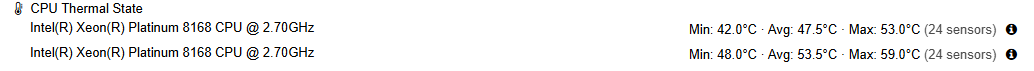
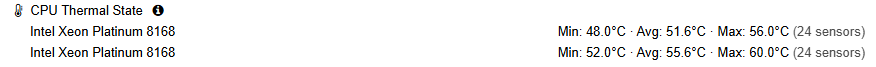
first

diff --git a/src/modules/node_info/files/PveMods_pvemanagerlib.js b/src/modules/node_info/files/PveMods_pvemanagerlib.js
@@ -246,9 +246,7 @@ function renderCpuThermal(info) {
             : state === 'warning' ? 'color: #FFC300; font-weight: bold;' : '';
         return `<span style="${style}">${format(value)}</span>`;
     };
-    const detailsLabel = Ext.htmlEncode(gettext('CPU sensor details'));
     const rows = groups.map(group => {
-        const detailsButton = `<button type="button" class="pve-mods-cpu-details" data-cpu-group="${Ext.htmlEncode(group.id)}" aria-label="${detailsLabel}" title="${detailsLabel}" style="padding: 2px 6px; border: 0; background: transparent; color: inherit; font: inherit; cursor: pointer;"><i class="fa fa-info-circle" aria-hidden="true"></i></button>`;
         const values = group.selected.map(row => row.value);
         const minimum = group.selected.reduce((a, b) => a.value <= b.value ? a : b);
         const maximum = group.selected.reduce((a, b) => a.value >= b.value ? a : b);
@@ -258,7 +256,7 @@ function renderCpuThermal(info) {
         const summary = `${gettext('Min')}: ${colored(minimum.value, minimum.state)}`
             + ` &middot; ${gettext('Avg')}: ${colored(average, averageState)}`
             + ` &middot; ${gettext('Max')}: ${colored(maximum.value, maximum.state)}`
-            + ` <span style="white-space: nowrap;"><span style="opacity: 0.7;">(${values.length} ${Ext.htmlEncode(gettext('sensors'))})</span> ${detailsButton}</span>`;
+            + ` <span style="white-space: nowrap; opacity: 0.7;">(${values.length} ${Ext.htmlEncode(gettext('sensors'))})</span>`;
         const label = Ext.htmlEncode(group.model || gettext('Unknown CPU'));
         return `<tr><td style="width: 50%; padding: 2px 10px 2px 20px; vertical-align: top; overflow-wrap: anywhere;">${label}</td>`
             + `<td style="width: 50%; padding: 2px 0 2px 10px; text-align: right; vertical-align: top; white-space: normal; overflow-wrap: anywhere;">${summary}</td></tr>`;
@@ -266,8 +264,8 @@ function renderCpuThermal(info) {
     return `<table style="width: 100%; table-layout: fixed; border-collapse: collapse;">${rows}</table>`;
 }
 
-function getCpuThermalDetailRows(widget) {
-    return widget.cpuThermalGroups.filter(group => group.id === widget.cpuThermalDetailGroup)
+function getCpuThermalDetailRows(widget, groupId) {
+    return widget.cpuThermalGroups.filter(group => group.id === groupId)
         .flatMap(group => group.rows.map(row => ({
         id: JSON.stringify([group.id, row.id]),
         group: group.label, model: group.model, sensor: row.label, value: row.value, state: row.state,
@@ -279,69 +277,74 @@ function refreshCpuThermalDetails(widget) {
     if (!win || win.destroyed) {
         return;
     }
-    const grid = win.down('grid');
-    const store = grid.getStore();
-    const rows = getCpuThermalDetailRows(widget);
-    const ids = new Set(rows.map(row => row.id));
-    store.remove(store.getRange().filter(record => !ids.has(record.getId())));
-    rows.forEach(row => {
-        const record = store.getById(row.id);
-        if (record) {
-            record.set(row);
-            record.commit();
-        } else {
-            store.add(row);
+    const tabs = win.down('tabpanel');
+    const groups = widget.cpuThermalGroups || [];
+    groups.forEach(group => {
+        let grid = tabs.items.items.find(tab => tab.deviceId === group.id);
+        if (!grid) {
+            grid = tabs.add({
+                xtype: 'grid',
+                deviceId: group.id,
+                title: Ext.htmlEncode(`${group.model || gettext('CPU')} (${group.label})`),
+                scrollable: true,
+                viewConfig: { preserveScrollOnRefresh: true },
+                store: { fields: ['id', 'group', 'model', 'sensor', 'value', 'state'] },
+                columns: [
+                    { text: gettext('Package'), dataIndex: 'group', width: 150, renderer: Ext.htmlEncode },
+                    { text: gettext('Sensor'), dataIndex: 'sensor', flex: 1, minWidth: 140, renderer: Ext.htmlEncode },
+                    { text: `\u00b0${widget.cpuThermalUnit}`, itemId: 'temperatureColumn', dataIndex: 'value', width: 90,
+                        renderer: function(value, metadata, record) {
+                            const state = record.get('state');
+                            metadata.tdStyle = state === 'critical' ? 'color: red; font-weight: bold;'
+                                : state === 'warning' ? 'color: #FFC300; font-weight: bold;' : '';
+                            return Ext.util.Format.number(value, '0.0');
+                        } },
+                ],
+            });
+        }
+        const store = grid.getStore();
+        const rows = getCpuThermalDetailRows(widget, group.id);
+        const ids = new Set(rows.map(row => row.id));
+        store.remove(store.getRange().filter(record => !ids.has(record.getId())));
+        rows.forEach(row => {
+            const record = store.getById(row.id);
+            if (record) {
+                record.set(row);
+                record.commit();
+            } else {
+                store.add(row);
+            }
+        });
+        grid.down('#temperatureColumn').setText(`\u00b0${widget.cpuThermalUnit}`);
+    });
+    tabs.items.items.slice().forEach(tab => {
+        if (!groups.some(group => group.id === tab.deviceId)) {
+            tabs.remove(tab);
         }
     });
-    grid.down('#temperatureColumn').setText(`\u00b0${widget.cpuThermalUnit}`);
+    if (!tabs.getActiveTab() && tabs.items.getCount()) {
+        tabs.setActiveTab(0);
+    }
 }
 
-function showCpuThermalDetails(widget, groupId) {
-    const group = widget.cpuThermalGroups?.find(group => group.id === groupId);
-    if (!group) {
-        return;
-    }
-    if (widget.cpuThermalWindow && widget.cpuThermalDetailGroup !== groupId) {
-        widget.cpuThermalWindow.close();
-    }
-    widget.cpuThermalDetailGroup = groupId;
+function showCpuThermalDetails(widget) {
     if (widget.cpuThermalWindow && !widget.cpuThermalWindow.destroyed) {
         widget.cpuThermalWindow.toFront();
         return;
     }
-    // Counts refer to temperature sensors, not logical threads; retain sparse core IDs per package.
-    const rows = getCpuThermalDetailRows(widget);
     const size = Ext.getBody().getViewSize();
     widget.cpuThermalWindow = Ext.create('Ext.window.Window', {
-        title: Ext.htmlEncode(gettext('CPU temperature sensors - live')
-            + (group.model ? ' - ' + group.model : '')),
+        title: gettext('CPU temperature sensors - live'),
         modal: true,
         width: Math.min(900, size.width - 32),
         height: Math.min(560, size.height - 64),
         layout: 'fit',
-        items: [{
-            xtype: 'grid',
-            scrollable: true,
-            store: {
-                fields: ['id', 'group', 'model', 'sensor', 'value', 'state'],
-                data: rows,
-            },
-            columns: [
-                { text: gettext('Package'), dataIndex: 'group', width: 150, renderer: Ext.htmlEncode },
-                { text: gettext('Sensor'), dataIndex: 'sensor', flex: 1, minWidth: 140, renderer: Ext.htmlEncode },
-                { text: `\u00b0${widget.cpuThermalUnit}`, itemId: 'temperatureColumn', dataIndex: 'value', width: 90,
-                    renderer: function(value, metadata, record) {
-                        const state = record.get('state');
-                        metadata.tdStyle = state === 'critical' ? 'color: red; font-weight: bold;'
-                            : state === 'warning' ? 'color: #FFC300; font-weight: bold;' : '';
-                        return Ext.util.Format.number(value, '0.0');
-                    } },
-            ],
-        }],
+        items: [{ xtype: 'tabpanel' }],
         buttons: [{ text: gettext('Close'), handler: button => button.up('window').close() }],
         listeners: { destroy: function() { widget.cpuThermalWindow = null; } },
     });
     widget.cpuThermalWindow.show();
+    refreshCpuThermalDetails(widget);
 }
 
 function getGpuDevices(info) {
@@ -564,13 +567,11 @@ function renderUpsSummary(info) {
         const status = getUpsStatus(data['ups.status']);
         const style = status.state === 'critical' ? 'color: red; font-weight: bold;'
             : status.state === 'warning' ? 'color: #FFC300; font-weight: bold;' : '';
-        const label = encode(gettext('UPS details'));
-        const button = `<button type="button" class="pve-mods-ups-details" data-ups-key="${encode(key)}" aria-label="${label}" title="${label}" style="padding: 2px 6px; border: 0; background: transparent; color: inherit; font: inherit; cursor: pointer;"><i class="fa fa-info-circle" aria-hidden="true"></i></button>`;
         const summary = `<div style="display: flex; justify-content: space-between; gap: 8px;">`
             + `<span style="text-align: left; ${style}">${encode(status.text)}</span>`
             + `<span>${encode(gettext('Capacity'))}: ${encode(percent(data['battery.charge']))}`
             + ` (${encode(formatUpsRuntime(data['battery.runtime']))} ${encode(gettext('left'))})`
-            + ` | <span style="white-space: nowrap;">${encode(gettext('Load'))}: ${encode(percent(data['ups.load']))} ${button}</span></span></div>`;
+            + ` | <span style="white-space: nowrap;">${encode(gettext('Load'))}: ${encode(percent(data['ups.load']))}</span></span></div>`;
         const charge = getSensorValue({ input: data['battery.charge'] }, 'input');
         const chargeAvailable = Number.isFinite(charge) && charge >= 0 && charge <= 100;
         const capacityLabel = encode(gettext('Battery capacity') + ': ' + percent(data['battery.charge']));
@@ -589,16 +590,11 @@ function renderUpsSummary(info) {
     return `<table style="width: 100%; table-layout: fixed; border-collapse: collapse;">${rows.join('')}</table>`;
 }
 
-function refreshUpsDetails(widget) {
-    const win = widget.upsWindow;
-    if (!win || win.destroyed) {
-        return;
-    }
-    const data = widget.upsInfo?.[widget.upsDetailKey];
+function getUpsDetailsHtml(data, key) {
     const encode = value => Ext.htmlEncode(String(value));
     const sections = [
         [gettext('Device'), [
-            [gettext('Connection'), null, widget.upsDetailKey],
+            [gettext('Connection'), null, key],
             [gettext('Manufacturer'), 'ups.mfr', data?.['device.mfr']],
             [gettext('Model'), 'ups.model', data?.['device.model']],
             [gettext('Serial number'), 'ups.serial', data?.['device.serial']],
@@ -637,41 +633,65 @@ function refreshUpsDetails(widget) {
         }).join('');
         return entries ? `<h3>${encode(title)}</h3><table style="width: 100%; table-layout: fixed; border-collapse: collapse;">${entries}</table>` : '';
     }).join('');
-    win.down('#overview').update(data ? html : encode(gettext('UPS data unavailable')));
+    return data ? html : encode(gettext('UPS data unavailable'));
 }
 
-function showUpsDetails(widget, key) {
-    const data = widget.upsInfo?.[key];
-    if (!data) {
+function refreshUpsDetails(widget) {
+    const win = widget.upsWindow;
+    if (!win || win.destroyed) {
         return;
     }
-    if (widget.upsWindow && widget.upsDetailKey !== key) {
-        widget.upsWindow.close();
+    const tabs = win.down('tabpanel');
+    const devices = Object.entries(widget.upsInfo || {}).filter(([, data]) =>
+        data && typeof data === 'object' && !Array.isArray(data));
+    devices.forEach(([key, data]) => {
+        let panel = tabs.items.items.find(tab => tab.deviceId === key);
+        if (!panel) {
+            panel = tabs.add({
+                xtype: 'panel',
+                deviceId: key,
+                title: Ext.htmlEncode(`${data['ups.model'] || data['device.model'] || gettext('UPS')} (${key})`),
+                bodyPadding: 15,
+                scrollable: true,
+            });
+        }
+        const html = getUpsDetailsHtml(data, key);
+        if (panel.detailsHtml !== html) {
+            const scrollable = panel.getScrollable();
+            const position = scrollable.getPosition();
+            panel.update(html);
+            panel.detailsHtml = html;
+            scrollable.scrollTo(position.x, position.y);
+        }
+    });
+    tabs.items.items.slice().forEach(tab => {
+        if (!devices.some(([key]) => key === tab.deviceId)) {
+            tabs.remove(tab);
+        }
+    });
+    if (!tabs.getActiveTab() && tabs.items.getCount()) {
+        tabs.setActiveTab(0);
     }
-    widget.upsDetailKey = key;
+}
+
+function showUpsDetails(widget) {
     if (widget.upsWindow && !widget.upsWindow.destroyed) {
         widget.upsWindow.toFront();
         return;
     }
     const size = Ext.getBody().getViewSize();
     widget.upsWindow = Ext.create('Ext.window.Window', {
-        title: Ext.htmlEncode(gettext('UPS details - live') + ' - '
-            + (data['ups.model'] || data['device.model'] || key)),
+        title: gettext('UPS details - live'),
         modal: true,
         width: Math.min(760, size.width - 32),
         height: Math.min(560, size.height - 64),
         layout: 'fit',
-        items: [{
-            xtype: 'panel',
-            itemId: 'overview',
-            bodyPadding: 15,
-            scrollable: true,
-        }],
+        items: [{ xtype: 'tabpanel' }],
         buttons: [{ text: gettext('Close'), handler: button => button.up('window').close() }],
         listeners: { destroy: function() { widget.upsWindow = null; } },
     });
-    refreshUpsDetails(widget);
     widget.upsWindow.show();
+    refreshUpsDetails(widget);
 }
 
 function showStorageHealthDetails(widget) {
@@ -868,8 +888,7 @@ Ext.define('PVE.node.StatusView', {
                     text += ` <span style="opacity: 0.7;">(+${issues.length - 1} ${gettext('more')})</span>`;
                 }
 
-                const detailsLabel = Ext.htmlEncode(gettext('Storage health details'));
-                return `${text} <button type="button" class="pve-mods-storage-details" aria-label="${detailsLabel}" title="${detailsLabel}" style="margin-left: 4px; padding: 2px 6px; border: 0; background: transparent; color: inherit; font: inherit; cursor: pointer;"><i class="fa fa-info-circle" aria-hidden="true"></i></button>`;
+                return text;
             },
             value: '',
         },
@@ -905,8 +924,7 @@ Ext.define('PVE.node.StatusView', {
             listeners: {
                 afterrender: function(widget) {
                     widget.getEl().on('click', function(event) {
-                        const button = event.getTarget('button.pve-mods-cpu-details');
-                        showCpuThermalDetails(widget, button.getAttribute('data-cpu-group'));
+                        showCpuThermalDetails(widget);
                     }, null, { delegate: 'button.pve-mods-cpu-details' });
                 },
                 destroy: function(widget) {
@@ -1376,8 +1394,7 @@ Ext.define('PVE.node.StatusView', {
             listeners: {
                 afterrender: function(widget) {
                     widget.getEl().on('click', function(event) {
-                        const button = event.getTarget('button.pve-mods-ups-details');
-                        showUpsDetails(widget, button.getAttribute('data-ups-key'));
+                        showUpsDetails(widget);
                     }, null, { delegate: 'button.pve-mods-ups-details' });
                 },
                 destroy: function(widget) {
@@ -1489,6 +1506,9 @@ Ext.define('PVE.node.StatusView', {
                 if (field.itemId === 'gpu_details' && field.gpuWindow) {
                     field.gpuWindow.close();
                 }
+                if (field.itemId === 'thermalCpu' && field.cpuThermalWindow) {
+                    field.cpuThermalWindow.close();
+                }
                 return;
             }
             if (state === 'pending') {
@@ -1559,12 +1579,21 @@ Ext.define('PVE.node.StatusView', {
                 '<div style="width: 100%; white-space: normal;">{usage}</div>'
             );
         });
-        const gpuLabel = Ext.htmlEncode(gettext('GPU details - live'));
-        me.down('#gpu_details').getComponent('label').tpl = new Ext.XTemplate(
-            '<div><tpl if="iconCls"><i class="{iconCls}"></i> </tpl>{title} ',
-            `<button type="button" class="pve-mods-gpu-details" aria-label="${gpuLabel}" title="${gpuLabel}" style="padding: 2px 6px; border: 0; background: transparent; color: inherit; font: inherit; cursor: pointer;"><i class="fa fa-info-circle" aria-hidden="true"></i></button></div>`,
-            '<div style="width: 100%; white-space: normal;">{usage}</div>'
-        );
+        [
+            ['gpu_details', 'gpu', gettext('GPU details - live')],
+            ['thermalCpu', 'cpu', gettext('CPU temperature sensors - live')],
+            ['upsc', 'ups', gettext('UPS details - live')],
+            ['storageHealth', 'storage', gettext('Storage health details')],
+        ].forEach(([itemId, type, label]) => {
+            const encoded = Ext.htmlEncode(label);
+            const heading = '<tpl if="iconCls"><i class="{iconCls}"></i> </tpl>{title} '
+                + `<button type="button" class="pve-mods-${type}-details" aria-label="${encoded}" title="${encoded}" style="padding: 2px 6px; border: 0; background: transparent; color: inherit; font: inherit; cursor: pointer;"><i class="fa fa-info-circle" aria-hidden="true"></i></button>`;
+            me.down('#' + itemId).getComponent('label').tpl = new Ext.XTemplate(
+                itemId === 'storageHealth'
+                    ? `<div class="left-aligned">${heading}</div><div class="right-aligned">{usage}</div>`
+                    : `<div>${heading}</div><div style="width: 100%; white-space: normal;">{usage}</div>`
+            );
+        });
         me.down('#thermalRam').getComponent('label').tpl = new Ext.XTemplate(
             '<div style="display: grid; grid-template-columns: minmax(0, 1fr) minmax(0, 1fr); align-items: start;">',
             '<div><tpl if="iconCls"><i class="{iconCls}"></i> </tpl>{title}</div>',

diff --git a/src/modules/node_info/readme.md b/src/modules/node_info/readme.md
@@ -13,7 +13,9 @@ The node summary shows one row per CPU package with the minimum, average and max
 
 ![Node summary CPU temperatures on a dual-socket Intel system](images/cpu-temperature-summary-dual-intel.png)
 
-![Live CPU temperature sensors table on a dual-socket Intel system](images/cpu-temperature-live-dual-intel.png)
+![Live CPU temperature sensors table for package 0 on a dual-socket Intel system](images/cpu-temperature-live-dual-intel.png)
+
+![Live CPU temperature sensors table for package 1 on a dual-socket Intel system](images/cpu-temperature-live-dual-intel-package1.png)
 
 #### Memory
 RAM temperatures support both DDR5 (`spd5118`) and DDR3/4 (`jc42`/SODIMM) sensors, displayed per-DIMM with its slot number.
